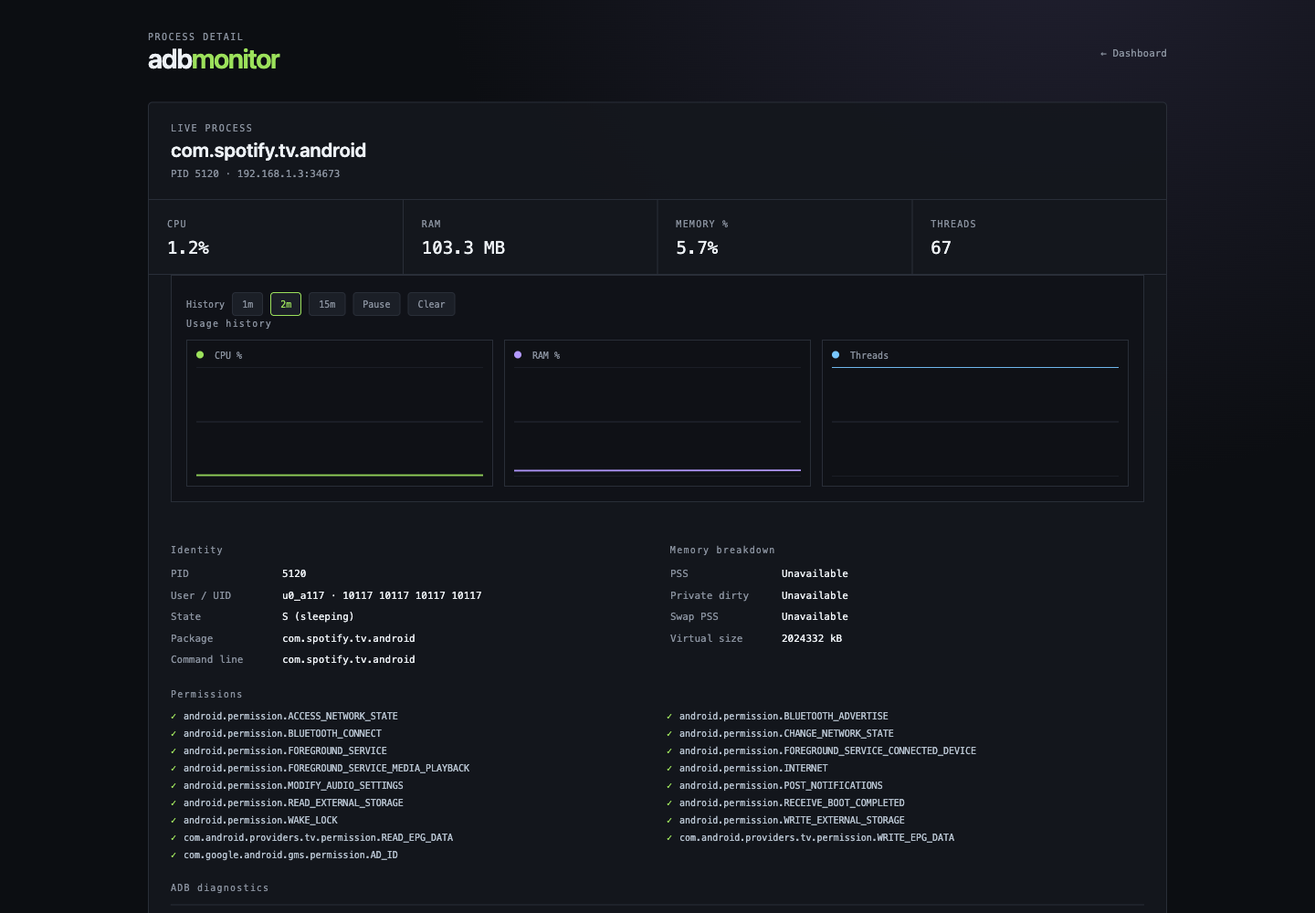
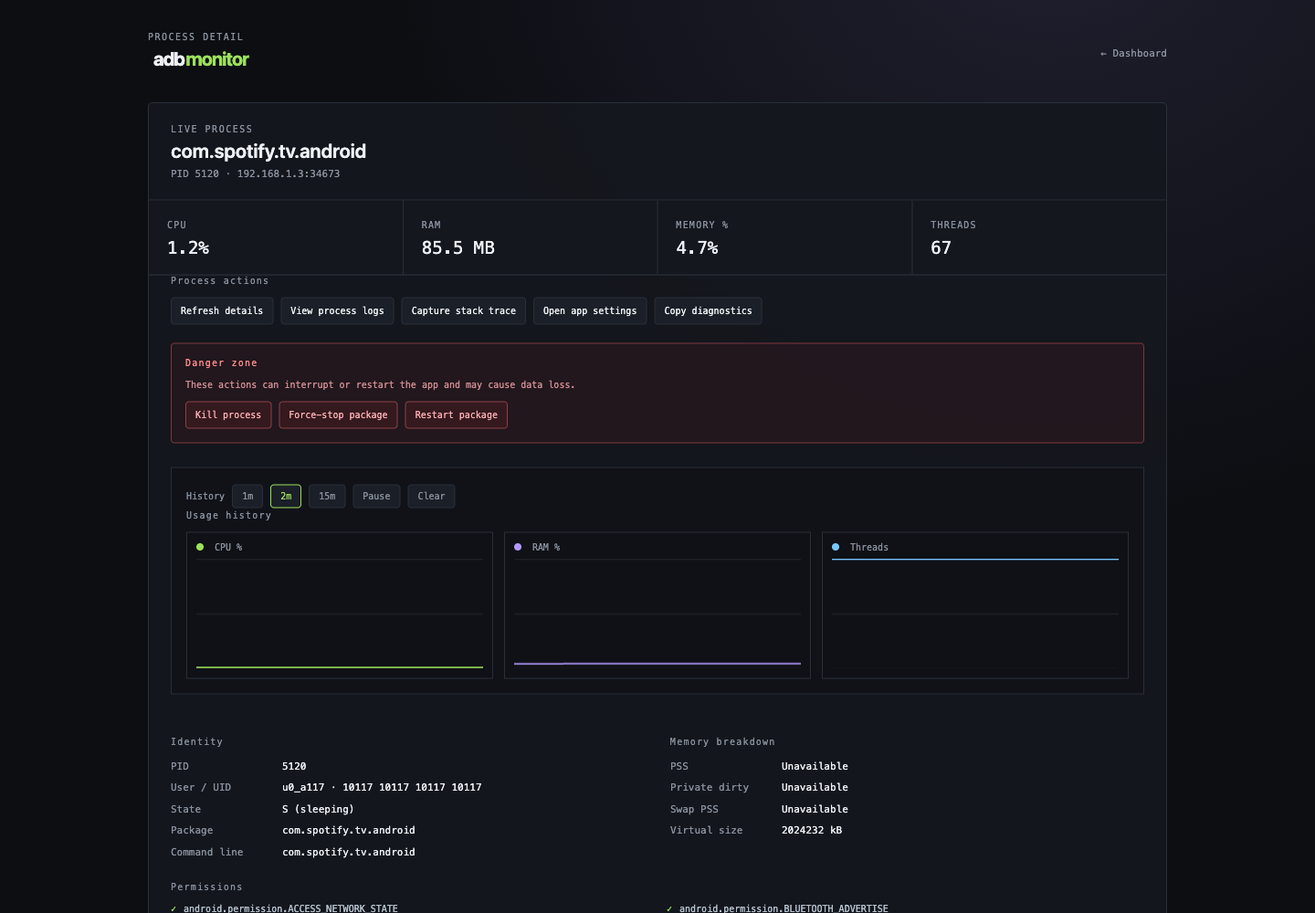
Add confirmed process actions and PID reattachment

diff --git a/public/process-page.js b/public/process-page.js
@@ -1,25 +1,94 @@
 const params = new URLSearchParams(location.search);
-const serial = params.get('serial'), pid = params.get('pid');
+const serial = params.get('serial'), initialPid = params.get('pid');
+let currentPid = initialPid;
+let reattaching = false;
 const $ = id => document.getElementById(id);
 const pct = value => `${Number(value || 0).toFixed(1)}%`;
 const processRam = value => value >= 1024 * 1024 ? `${(value / 1024 / 1024).toFixed(1)} GB` : value >= 1024 ? `${(value / 1024).toFixed(1)} MB` : `${value || 0} KB`;
 const history = [];
 let pageRange = 60, pagePaused = false;
+let latestDetail;
 document.querySelector('#pageContent .detail-sections')?.insertAdjacentHTML('beforebegin', '<div class="history-card process-history"><div id="pageHistoryControls" class="chart-toolbar"><span>History</span><button data-range="30">1m</button><button data-range="60" class="active">2m</button><button data-range="450">15m</button><button id="pagePause">Pause</button><button id="pageClear">Clear</button></div><div class="history-head"><h3>Usage history</h3></div><div class="process-history-grid"><div><span class="chart-label"><i class="legend-cpu"></i> CPU %</span><canvas id="pageCpuChart" height="140"></canvas></div><div><span class="chart-label"><i class="legend-ram"></i> RAM %</span><canvas id="pageMemoryChart" height="140"></canvas></div><div><span class="chart-label"><i class="legend-threads"></i> Threads</span><canvas id="pageThreadsChart" height="140"></canvas></div></div><div id="pageProcessTooltip" class="process-tooltip" hidden></div></div>');
 function set(id, value) { $(id).textContent = value || 'Unavailable'; }
 async function refresh() {
-  if (!serial || !pid) { $('pageError').hidden = false; $('pageError').textContent = 'A device serial and process ID are required.'; return; }
+  if (!serial || !currentPid) { $('pageError').hidden = false; $('pageError').textContent = 'A device serial and process ID are required.'; return; }
   try {
-    const response = await fetch(`/api/process?serial=${encodeURIComponent(serial)}&pid=${encodeURIComponent(pid)}`); if (!response.ok) throw new Error(await response.text());
+    const response = await fetch(`/api/process?serial=${encodeURIComponent(serial)}&pid=${encodeURIComponent(currentPid)}`); if (!response.ok) throw new Error(await response.text());
     const data = await response.json(), p = data.process, status = data.status, memory = data.memory, d = data.diagnostics || {};
+    latestDetail = data;
     set('pageName', p.name); set('pageSubtitle', `PID ${data.pid} · ${data.serial}`); set('pageCpu', pct(p.cpu)); set('pageRam', processRam(p.rss)); set('pageMemPct', pct(p.memory)); set('pageThreads', status.threads); set('pagePid', data.pid); set('pageUser', `${p.user} · ${status.uid}`); set('pageState', status.state); set('pagePackage', data.packageName); set('pageCommand', data.commandLine); set('pagePss', memory.pss ? `${memory.pss} KB` : 'Unavailable'); set('pagePrivate', memory.privateDirty ? `${memory.privateDirty} KB` : 'Unavailable'); set('pageSwap', memory.swapPss ? `${memory.swapPss} KB` : 'Unavailable'); set('pageVmSize', status.vmSize);
     if (!pagePaused) { history.push({ time: new Date(data.timestamp), cpu: Number(p.cpu) || 0, memory: Number(p.memory) || 0, threads: Number(status.threads) || 0 }); if (history.length > 450) history.shift(); } drawHistory(history); setupPageHistoryControls();
     $('pagePermissions').innerHTML = data.permissions?.length ? data.permissions.map(permission => `<li>${permission}</li>`).join('') : '<li>Unavailable or not an Android package process</li>';
     set('pageFds', d.fileDescriptors || 'Unavailable'); set('pageMeminfo', d.meminfo); set('pageStatusRaw', `${d.status || ''}${d.limits || 'Limits unavailable'}`); set('pageIo', d.io); set('pageSched', d.sched); set('pageMaps', d.maps); set('pageActivity', d.activityInfo); set('pagePackageInfo', d.packageInfo);
-    $('pageError').hidden = true; $('pageContent').style.display = '';
-  } catch (error) { $('pageContent').style.display = 'none'; $('pageError').hidden = false; $('pageError').textContent = `Unable to read this process: ${error.message}`; }
+    $('pageError').className = 'detail-error'; $('pageError').hidden = true; $('pageContent').style.display = '';
+  } catch (error) {
+    const processMissing = /No such file|not found|does not exist/i.test(error.message);
+    if (processMissing && latestDetail?.packageName) {
+      $('pageContent').style.display = '';
+      $('pageError').className = 'detail-info'; $('pageError').hidden = false;
+      $('pageError').textContent = `Process ${currentPid} exited. Waiting for ${latestDetail.packageName} to return with a new PID…`;
+      if (!reattaching) {
+        reattaching = true;
+        await reattachToPackage(latestDetail.packageName);
+        reattaching = false;
+      }
+      return;
+    }
+    $('pageContent').style.display = 'none'; $('pageError').className = 'detail-error'; $('pageError').hidden = false; $('pageError').textContent = `Unable to read this process: ${error.message}`;
+  }
 }
 function drawHistory(samples) { const visible = samples.slice(-pageRange), maxThreads = Math.max(1, ...visible.map(sample => sample.threads || 0)); [['Cpu', 'cpu', '#9ce15b', 100], ['Memory', 'memory', '#b399ff', 100], ['Threads', 'threads', '#78c7ff', maxThreads]].forEach(([suffix, key, color, max]) => { const canvas = $(`page${suffix}Chart`), rect = canvas.getBoundingClientRect(), ratio = window.devicePixelRatio || 1, width = Math.max(240, rect.width), height = 140; canvas.width = width * ratio; canvas.height = height * ratio; const context = canvas.getContext('2d'); context.scale(ratio, ratio); context.clearRect(0, 0, width, height); context.strokeStyle = '#292e38'; context.lineWidth = 1; [0, .5, 1].forEach(step => { const y = height * step; context.beginPath(); context.moveTo(0, y); context.lineTo(width, y); context.stroke(); }); context.strokeStyle = color; context.lineWidth = 2; context.beginPath(); visible.forEach((sample, index) => { const x = visible.length === 1 ? width / 2 : index / (visible.length - 1) * width; const y = height - Math.min(max, sample[key]) / max * height; index ? context.lineTo(x, y) : context.moveTo(x, y); }); context.stroke(); }); attachPageHover(visible); }
 function setupPageHistoryControls() { const controls = $('pageHistoryControls'); if (!controls || controls.dataset.ready) return; controls.dataset.ready = '1'; controls.addEventListener('click', event => { if (event.target.dataset.range) { pageRange = Number(event.target.dataset.range); controls.querySelectorAll('[data-range]').forEach(button => button.classList.toggle('active', button.dataset.range === event.target.dataset.range)); drawHistory(history); } if (event.target.id === 'pagePause') { pagePaused = !pagePaused; event.target.textContent = pagePaused ? 'Resume' : 'Pause'; } if (event.target.id === 'pageClear') { history.length = 0; drawHistory(history); } }); }
 function attachPageHover(samples) { ['Cpu', 'Memory', 'Threads'].forEach(suffix => { const canvas = $(`page${suffix}Chart`); if (!canvas || canvas.dataset.hoverReady) return; canvas.dataset.hoverReady = '1'; canvas.addEventListener('mousemove', event => { const rect = canvas.getBoundingClientRect(), ratio = Math.max(0, Math.min(1, (event.clientX - rect.left) / rect.width)), index = Math.min(samples.length - 1, Math.round(ratio * Math.max(0, samples.length - 1))), sample = samples[index], tooltip = $('pageProcessTooltip'); if (!sample || !tooltip) return; const box = canvas.closest('.process-history'), boxRect = box.getBoundingClientRect(); tooltip.hidden = false; tooltip.innerHTML = `${sample.time?.toLocaleTimeString() || ''}<br><span class="tooltip-cpu">CPU ${pct(sample.cpu)}</span> · <span class="tooltip-ram">RAM ${pct(sample.memory)}</span> · <span class="tooltip-threads">Threads ${sample.threads}`; tooltip.style.left = `${Math.min(rect.left - boxRect.left + event.clientX - rect.left + 10, box.clientWidth - 180)}px`; tooltip.style.top = `${rect.top - boxRect.top + 8}px`; }); canvas.addEventListener('mouseleave', () => { const tooltip = $('pageProcessTooltip'); if (tooltip) tooltip.hidden = true; }); }); }
 refresh(); setInterval(refresh, 2000);
+
+const actionLabels = { refresh: 'Refresh details', logs: 'View process logs', stack: 'Capture stack trace', settings: 'Open app settings', copy: 'Copy diagnostics', kill: 'Kill process', 'force-stop': 'Force-stop package', restart: 'Restart package' };
+const dangerousActions = new Set(['kill', 'force-stop', 'restart']);
+function showActionResult(message, output = '') {
+  const status = $('actionStatus'), result = $('actionOutput');
+  status.hidden = false; status.textContent = message;
+  result.hidden = !output; result.textContent = output;
+}
+async function copyDiagnostics() {
+  const text = JSON.stringify(latestDetail, null, 2);
+  await navigator.clipboard.writeText(text);
+  showActionResult('Diagnostics copied to the clipboard.');
+}
+async function reattachToPackage(packageName) {
+  showActionResult(`Waiting for ${packageName} to start…`);
+  for (let attempt = 0; attempt < 12; attempt += 1) {
+    await new Promise(resolve => setTimeout(resolve, 800));
+    const response = await fetch(`/api/process-locate?serial=${encodeURIComponent(serial)}&packageName=${encodeURIComponent(packageName)}`);
+    if (!response.ok) continue;
+    const result = await response.json();
+    if (result.process?.pid) {
+      currentPid = String(result.process.pid);
+      const nextUrl = new URL(location.href); nextUrl.searchParams.set('pid', currentPid); window.history.replaceState(null, '', nextUrl);
+      showActionResult(`Re-attached to ${packageName} with new PID ${currentPid}.`);
+      await refresh();
+      return true;
+    }
+  }
+  showActionResult(`The package did not expose a new process within the timeout. Refresh details to retry.`);
+  return false;
+}
+async function runAction(action) {
+  if (!latestDetail) return;
+  const label = actionLabels[action] || action;
+  const warning = dangerousActions.has(action) ? `Dangerous action: ${label} for ${latestDetail.packageName || `PID ${latestDetail.pid}`}? This may interrupt the app.` : `Run “${label}” for ${latestDetail.packageName || `PID ${latestDetail.pid}`}?`;
+  if (!window.confirm(warning)) return;
+  document.querySelectorAll('[data-action]').forEach(button => { button.disabled = true; });
+  showActionResult(`${label}…`);
+  try {
+    if (action === 'refresh') { await refresh(); showActionResult('Process details refreshed.'); return; }
+    if (action === 'copy') { await copyDiagnostics(); return; }
+    const response = await fetch('/api/process-action', { method: 'POST', headers: { 'Content-Type': 'application/json' }, body: JSON.stringify({ serial, pid: currentPid, packageName: latestDetail.packageName, action }) });
+    const result = await response.json();
+    if (!response.ok) throw new Error(result.error || result.message || 'Action failed');
+    showActionResult(`${label} completed.`, result.output || 'ADB returned no output.');
+    if (action === 'restart') await reattachToPackage(latestDetail.packageName);
+    else if (dangerousActions.has(action)) setTimeout(refresh, 1000);
+  } catch (error) { showActionResult(`${label} failed: ${error.message}`); }
+  finally { document.querySelectorAll('[data-action]').forEach(button => { button.disabled = false; }); }
+}
+document.querySelectorAll('[data-action]').forEach(button => button.addEventListener('click', () => runAction(button.dataset.action)));

diff --git a/public/styles.css b/public/styles.css
@@ -6,8 +6,9 @@
 .metric-grid { display:grid; grid-template-columns:repeat(3,1fr); gap:13px; margin-top:13px; }.metric { padding:18px; min-height:130px; }.metric-head span { color:var(--muted); font-size:10px; letter-spacing:1.4px; }.metric-head b { font:500 27px ui-monospace,monospace; }.metric:nth-child(2) .metric-head b { font-size:20px; }.meter { height:4px; background:#252a33; margin:22px 0 12px; overflow:hidden; }.meter i { display:block; width:0; height:100%; background:var(--green); transition:width .3s; }.meter.purple i { background:var(--purple); }.metric p { color:var(--muted); font-size:11px; }.process-spark { height:24px; display:flex; gap:2px; align-items:end; margin:18px 0 9px; }.process-spark i { flex:1; min-height:2px; background:var(--orange); opacity:.8; }
 .core-list { display:grid; gap:5px; margin:12px 0 10px; }.core-row { display:grid; grid-template-columns:30px 1fr 42px; align-items:center; gap:7px; color:var(--muted); font-size:9px; }.core-row i { height:3px; background:#252a33; overflow:hidden; }.core-row i b { display:block; height:100%; background:var(--green); transition:width .3s; }.core-row em { color:var(--green); font-style:normal; text-align:right; }
 .process-panel { margin-top:13px; overflow:hidden; }.section-head { padding:19px 20px; border-bottom:1px solid var(--line); }.section-head > span,.table-tools > span { color:var(--muted); font-size:11px; }.table-tools { display:flex; align-items:center; gap:18px; }.table-tools input { width:220px; padding:8px 10px; border:1px solid var(--line); border-radius:4px; outline:0; color:var(--text); background:#0f1116; font:11px ui-monospace,monospace; }.table-tools input:focus { border-color:var(--green); }.table-tools input::placeholder { color:#68717d; }.table-wrap { overflow-x:auto; } table { width:100%; border-collapse:collapse; text-align:left; } th { color:var(--muted); font-size:10px; letter-spacing:1.2px; font-weight:400; padding:12px 20px; background:#171a21; } th.sortable { cursor:pointer; user-select:none; } th.sortable:hover, th.sortable span { color:var(--green); } td { padding:11px 20px; border-top:1px solid #20242c; white-space:nowrap; } tbody tr:hover { background:#1a1e26; } td:nth-child(2) { color:var(--text); font-weight:600; max-width:370px; overflow:hidden; text-overflow:ellipsis; } td:nth-child(4) { color:var(--green); } td:nth-child(5),td:nth-child(6) { color:var(--purple); }.empty { color:var(--muted); text-align:center; padding:35px; } footer { margin-top:16px; color:#565f6c; font-size:10px; } code { color:#87909d; }
-.process-row { cursor:pointer; }.process-row:focus { outline:1px solid var(--green); outline-offset:-1px; }.detail-modal { position:fixed; inset:0; z-index:10; display:grid; place-items:center; padding:24px; background:rgba(5,7,10,.78); }.detail-modal[hidden] { display:none; }.detail-card { width:min(760px,100%); max-height:calc(100vh - 48px); overflow:auto; box-shadow:0 24px 80px #0008; }.detail-head { display:flex; align-items:flex-start; justify-content:space-between; padding:22px 24px; border-bottom:1px solid var(--line); }.detail-subtitle { color:var(--muted); margin-top:7px; font-size:11px; }.close-button { border:0; background:transparent; color:var(--muted); font-size:28px; line-height:20px; cursor:pointer; }.close-button:hover { color:var(--text); }.detail-grid { display:grid; grid-template-columns:repeat(4,1fr); gap:1px; background:var(--line); border-bottom:1px solid var(--line); }.detail-stat { padding:18px 20px; background:var(--panel); }.detail-stat span,h3 { color:var(--muted); font-size:10px; letter-spacing:1.2px; }.detail-stat b { display:block; margin-top:8px; font-size:19px; font-weight:500; }.detail-sections { display:grid; grid-template-columns:1fr 1fr; gap:28px; padding:22px 24px 26px; }.detail-sections h3 { margin:0 0 14px; font-weight:400; }.detail-sections dl { display:grid; grid-template-columns:110px 1fr; gap:11px 12px; margin:0; font-size:11px; }.detail-sections dt { color:var(--muted); }.detail-sections dd { margin:0; color:var(--text); overflow-wrap:anywhere; }.detail-error { padding:24px; color:#ff8d8d; }
+.process-row { cursor:pointer; }.process-row:focus { outline:1px solid var(--green); outline-offset:-1px; }.detail-modal { position:fixed; inset:0; z-index:10; display:grid; place-items:center; padding:24px; background:rgba(5,7,10,.78); }.detail-modal[hidden] { display:none; }.detail-card { width:min(760px,100%); max-height:calc(100vh - 48px); overflow:auto; box-shadow:0 24px 80px #0008; }.detail-head { display:flex; align-items:flex-start; justify-content:space-between; padding:22px 24px; border-bottom:1px solid var(--line); }.detail-subtitle { color:var(--muted); margin-top:7px; font-size:11px; }.close-button { border:0; background:transparent; color:var(--muted); font-size:28px; line-height:20px; cursor:pointer; }.close-button:hover { color:var(--text); }.detail-grid { display:grid; grid-template-columns:repeat(4,1fr); gap:1px; background:var(--line); border-bottom:1px solid var(--line); }.detail-stat { padding:18px 20px; background:var(--panel); }.detail-stat span,h3 { color:var(--muted); font-size:10px; letter-spacing:1.2px; }.detail-stat b { display:block; margin-top:8px; font-size:19px; font-weight:500; }.detail-sections { display:grid; grid-template-columns:1fr 1fr; gap:28px; padding:22px 24px 26px; }.detail-sections h3 { margin:0 0 14px; font-weight:400; }.detail-sections dl { display:grid; grid-template-columns:110px 1fr; gap:11px 12px; margin:0; font-size:11px; }.detail-sections dt { color:var(--muted); }.detail-sections dd { margin:0; color:var(--text); overflow-wrap:anywhere; }.detail-error { padding:24px; color:#ff8d8d; }.detail-info { padding:24px; color:var(--orange); }
 .diagnostics { padding:0 24px 26px; }.diagnostics h3 { margin:0 0 12px; font-weight:400; }.diagnostics details { border-top:1px solid var(--line); }.diagnostics summary { padding:12px 0; color:var(--text); cursor:pointer; font-size:11px; }.diagnostics pre { max-height:260px; overflow:auto; margin:0 0 14px; padding:12px; border:1px solid var(--line); border-radius:3px; color:#aeb7c4; background:#0b0d11; font:10px/1.5 ui-monospace,monospace; white-space:pre-wrap; overflow-wrap:anywhere; }
+.process-actions { padding:0 24px 26px; }.process-actions > h3,.danger-zone h3 { margin:0 0 12px; font-weight:400; }.action-grid { display:flex; flex-wrap:wrap; gap:8px; }.action-grid button { padding:8px 10px; border:1px solid var(--line); border-radius:4px; color:var(--text); background:#1b1f27; font:10px ui-monospace,monospace; cursor:pointer; }.action-grid button:hover { border-color:var(--green); color:var(--green); }.action-grid button:disabled { opacity:.55; cursor:wait; }.danger-zone { margin-top:20px; padding:15px; border:1px solid #7d363d; border-radius:4px; background:rgba(90,25,32,.2); }.danger-zone h3 { color:#ff8d8d; }.danger-zone p { margin:0 0 12px; color:#d28d94; font-size:10px; }.danger-zone .action-grid button { border-color:#8b4148; color:#ffb0b5; background:#34191e; }.danger-zone .action-grid button:hover { border-color:#ff6b6b; color:#fff; }.action-status { margin-top:14px; color:var(--green); font-size:10px; }.action-output { max-height:220px; overflow:auto; margin:10px 0 0; padding:12px; border:1px solid var(--line); border-radius:3px; color:#aeb7c4; background:#0b0d11; font:10px/1.5 ui-monospace,monospace; white-space:pre-wrap; overflow-wrap:anywhere; }
 .detail-actions { display:flex; align-items:flex-start; gap:12px; }.open-page-button { padding:8px 10px; border:1px solid var(--line); border-radius:4px; color:var(--text); background:#1b1f27; font:10px ui-monospace,monospace; cursor:pointer; }.open-page-button:hover { border-color:var(--green); color:var(--green); }.permissions-block { padding:0 24px 24px; }.permissions-block h3 { margin:0 0 12px; font-weight:400; }.permissions-block ul { display:grid; grid-template-columns:repeat(2,minmax(0,1fr)); gap:7px 20px; margin:0; padding:0; list-style:none; color:#b5c1ce; font-size:10px; overflow-wrap:anywhere; }.permissions-block li::before { content:'✓'; color:var(--green); margin-right:8px; }
 .back-link { color:var(--muted); text-decoration:none; font-size:11px; }.back-link:hover { color:var(--green); }.full-detail-card { margin-top:30px; overflow:hidden; }
 .detail-loading { min-height:180px; display:flex; align-items:center; justify-content:center; gap:12px; color:var(--muted); font-size:11px; }.detail-loading[hidden] { display:none; }.spinner { width:18px; height:18px; border:2px solid #39414c; border-top-color:var(--green); border-radius:50%; animation:spin .75s linear infinite; }@keyframes spin { to { transform:rotate(360deg); } }

diff --git a/public/process.html b/public/process.html
@@ -1,1 +1,1 @@
-<!doctype html><html lang="en"><head><meta charset="UTF-8" /><meta name="viewport" content="width=device-width, initial-scale=1.0" /><title>Process Detail · ADB Monitor</title><link rel="stylesheet" href="/styles.css" /></head><body><main class="shell detail-page"><header class="topbar"><div><p class="eyebrow">PROCESS DETAIL</p><img class="brand-logo" src="/logo.svg" alt="adbmonitor" /></div><a class="back-link" href="/">← Dashboard</a></header><section class="process-panel panel full-detail-card"><div class="detail-head"><div><p class="eyebrow">LIVE PROCESS</p><h2 id="pageName">Process</h2><p id="pageSubtitle" class="detail-subtitle">Loading…</p></div></div><div id="pageError" class="detail-error" hidden></div><div id="pageContent"><div class="detail-grid"><div class="detail-stat"><span>CPU</span><b id="pageCpu">—</b></div><div class="detail-stat"><span>RAM</span><b id="pageRam">—</b></div><div class="detail-stat"><span>MEMORY %</span><b id="pageMemPct">—</b></div><div class="detail-stat"><span>THREADS</span><b id="pageThreads">—</b></div></div><div class="detail-sections"><div><h3>Identity</h3><dl><dt>PID</dt><dd id="pagePid">—</dd><dt>User / UID</dt><dd id="pageUser">—</dd><dt>State</dt><dd id="pageState">—</dd><dt>Package</dt><dd id="pagePackage">—</dd><dt>Command line</dt><dd id="pageCommand">—</dd></dl></div><div><h3>Memory breakdown</h3><dl><dt>PSS</dt><dd id="pagePss">—</dd><dt>Private dirty</dt><dd id="pagePrivate">—</dd><dt>Swap PSS</dt><dd id="pageSwap">—</dd><dt>Virtual size</dt><dd id="pageVmSize">—</dd></dl></div></div><div class="permissions-block"><h3>Permissions</h3><ul id="pagePermissions"><li>Loading…</li></ul></div><div class="diagnostics"><h3>ADB diagnostics</h3><details open><summary>Open file descriptors</summary><pre id="pageFds">—</pre></details><details><summary>Detailed memory (dumpsys meminfo)</summary><pre id="pageMeminfo">—</pre></details><details><summary>Process status and limits</summary><pre id="pageStatusRaw">—</pre></details><details><summary>Process I/O</summary><pre id="pageIo">—</pre></details><details><summary>CPU scheduling</summary><pre id="pageSched">—</pre></details><details><summary>Memory maps</summary><pre id="pageMaps">—</pre></details><details><summary>Activity manager state</summary><pre id="pageActivity">—</pre></details><details><summary>Package metadata</summary><pre id="pagePackageInfo">—</pre></details></div></div></section><footer><img class="footer-logo" src="/logo.svg" alt="ADB Monitor" /><span>Live process diagnostics</span></footer></main><script src="/process-page.js"></script></body></html>
+<!doctype html><html lang="en"><head><meta charset="UTF-8" /><meta name="viewport" content="width=device-width, initial-scale=1.0" /><title>Process Detail · ADB Monitor</title><link rel="stylesheet" href="/styles.css" /></head><body><main class="shell detail-page"><header class="topbar"><div><p class="eyebrow">PROCESS DETAIL</p><img class="brand-logo" src="/logo.svg" alt="adbmonitor" /></div><a class="back-link" href="/">← Dashboard</a></header><section class="process-panel panel full-detail-card"><div class="detail-head"><div><p class="eyebrow">LIVE PROCESS</p><h2 id="pageName">Process</h2><p id="pageSubtitle" class="detail-subtitle">Loading…</p></div></div><div id="pageError" class="detail-error" hidden></div><div id="pageContent"><div class="detail-grid"><div class="detail-stat"><span>CPU</span><b id="pageCpu">—</b></div><div class="detail-stat"><span>RAM</span><b id="pageRam">—</b></div><div class="detail-stat"><span>MEMORY %</span><b id="pageMemPct">—</b></div><div class="detail-stat"><span>THREADS</span><b id="pageThreads">—</b></div></div><div class="process-actions"><h3>Process actions</h3><div class="action-grid"><button type="button" data-action="refresh">Refresh details</button><button type="button" data-action="logs">View process logs</button><button type="button" data-action="stack">Capture stack trace</button><button type="button" data-action="settings">Open app settings</button><button type="button" data-action="copy">Copy diagnostics</button></div><div class="danger-zone"><h3>Danger zone</h3><p>These actions can interrupt or restart the app and may cause data loss.</p><div class="action-grid"><button type="button" data-action="kill">Kill process</button><button type="button" data-action="force-stop">Force-stop package</button><button type="button" data-action="restart">Restart package</button></div></div><div id="actionStatus" class="action-status" hidden></div><pre id="actionOutput" class="action-output" hidden></pre></div><div class="detail-sections"><div><h3>Identity</h3><dl><dt>PID</dt><dd id="pagePid">—</dd><dt>User / UID</dt><dd id="pageUser">—</dd><dt>State</dt><dd id="pageState">—</dd><dt>Package</dt><dd id="pagePackage">—</dd><dt>Command line</dt><dd id="pageCommand">—</dd></dl></div><div><h3>Memory breakdown</h3><dl><dt>PSS</dt><dd id="pagePss">—</dd><dt>Private dirty</dt><dd id="pagePrivate">—</dd><dt>Swap PSS</dt><dd id="pageSwap">—</dd><dt>Virtual size</dt><dd id="pageVmSize">—</dd></dl></div></div><div class="permissions-block"><h3>Permissions</h3><ul id="pagePermissions"><li>Loading…</li></ul></div><div class="diagnostics"><h3>ADB diagnostics</h3><details open><summary>Open file descriptors</summary><pre id="pageFds">—</pre></details><details><summary>Detailed memory (dumpsys meminfo)</summary><pre id="pageMeminfo">—</pre></details><details><summary>Process status and limits</summary><pre id="pageStatusRaw">—</pre></details><details><summary>Process I/O</summary><pre id="pageIo">—</pre></details><details><summary>CPU scheduling</summary><pre id="pageSched">—</pre></details><details><summary>Memory maps</summary><pre id="pageMaps">—</pre></details><details><summary>Activity manager state</summary><pre id="pageActivity">—</pre></details><details><summary>Package metadata</summary><pre id="pagePackageInfo">—</pre></details></div></div></section><footer><img class="footer-logo" src="/logo.svg" alt="ADB Monitor" /><span>Live process diagnostics</span></footer></main><script src="/process-page.js"></script></body></html>

diff --git a/server.js b/server.js
@@ -226,6 +226,28 @@ async function collectProcess(serial, pid) {
 
 function send(res, event, data) { res.write(`event: ${event}\ndata: ${JSON.stringify(data)}\n\n`); }
 
+const processActions = new Set(['logs', 'stack', 'settings', 'kill', 'force-stop', 'restart']);
+function validPackage(value) { return typeof value === 'string' && /^[A-Za-z][A-Za-z0-9_]*(?:\.[A-Za-z0-9_]+)+$/.test(value); }
+async function runProcessAction(serial, pid, action, packageName = '') {
+  if (!serial || !/^\d+$/.test(String(pid))) throw new Error('A valid device serial and process ID are required');
+  if (!processActions.has(action)) throw new Error('Unsupported process action');
+  const target = String(pid);
+  if (action === 'logs') return { action, output: await adb(['-s', serial, 'shell', `logcat -d --pid=${target} -t 200 -v threadtime`]) };
+  if (action === 'stack') return { action, output: await adb(['-s', serial, 'shell', `debuggerd -b ${target}`]) };
+  if (!validPackage(packageName)) throw new Error('This process does not expose a valid Android package name');
+  if (action === 'settings') return { action, output: await adb(['-s', serial, 'shell', 'am', 'start', '-a', 'android.settings.APPLICATION_DETAILS_SETTINGS', '-d', `package:${packageName}`]) };
+  if (action === 'kill') return { action, output: await adb(['-s', serial, 'shell', 'kill', '-TERM', target]) };
+  if (action === 'force-stop') return { action, output: await adb(['-s', serial, 'shell', 'am', 'force-stop', packageName]) };
+  await adb(['-s', serial, 'shell', 'am', 'force-stop', packageName]);
+  return { action, output: await adb(['-s', serial, 'shell', 'monkey', '-p', packageName, '1']) };
+}
+async function locatePackageProcess(serial, packageName) {
+  if (!validPackage(packageName)) throw new Error('A valid Android package name is required');
+  const snapshot = await collect(serial);
+  const match = snapshot.processes.find(process => process.name === packageName || process.name.startsWith(`${packageName}:`));
+  return { serial, packageName, process: match || null };
+}
+
 const server = createServer(async (req, res) => {
   const url = new URL(req.url, `http://${req.headers.host || 'localhost'}`);
   try {
@@ -252,6 +274,21 @@ const server = createServer(async (req, res) => {
       const detail = await collectProcess(serial, pid);
       res.writeHead(200, { 'Content-Type': 'application/json', 'Cache-Control': 'no-store' });
       return res.end(JSON.stringify(detail));
+    }
+    if (url.pathname === '/api/process-action' && req.method === 'POST') {
+      const chunks = [];
+      for await (const chunk of req) chunks.push(chunk);
+      const body = JSON.parse(Buffer.concat(chunks).toString() || '{}');
+      const result = await runProcessAction(body.serial, body.pid, body.action, body.packageName);
+      res.writeHead(200, { 'Content-Type': 'application/json', 'Cache-Control': 'no-store' });
+      return res.end(JSON.stringify(result));
+    }
+    if (url.pathname === '/api/process-locate') {
+      const serial = url.searchParams.get('serial');
+      const packageName = url.searchParams.get('packageName');
+      const result = await locatePackageProcess(serial, packageName);
+      res.writeHead(200, { 'Content-Type': 'application/json', 'Cache-Control': 'no-store' });
+      return res.end(JSON.stringify(result));
     }
     if (url.pathname === '/api/compare') {
       const serial = url.searchParams.get('serial');

diff --git a/README.md b/README.md
@@ -110,6 +110,18 @@ The endpoint compares a lightweight procfs snapshot with `ps` output, including 
 | `GET /api/process?serial=...&pid=...` | Fetch detailed process diagnostics |
 | `GET /api/compare?serial=...` | Compare procfs collection with `ps` |
 
+## Process actions
+
+Process detail pages provide confirmation-gated actions for logs, stack traces, app settings, diagnostics copy, and refreshing process data. Potentially disruptive actions are isolated in a red Danger zone and require an additional confirmation:
+
+- Kill the selected PID
+- Force-stop the owning package
+- Restart the owning package
+
+After a restart, the page locates the package's new PID and automatically re-attaches the live details and history stream.
+
+ADB permissions and Android build restrictions still apply. A failed action is reported in the page instead of being silently retried.
+
 ## Project structure
 
 ```text
